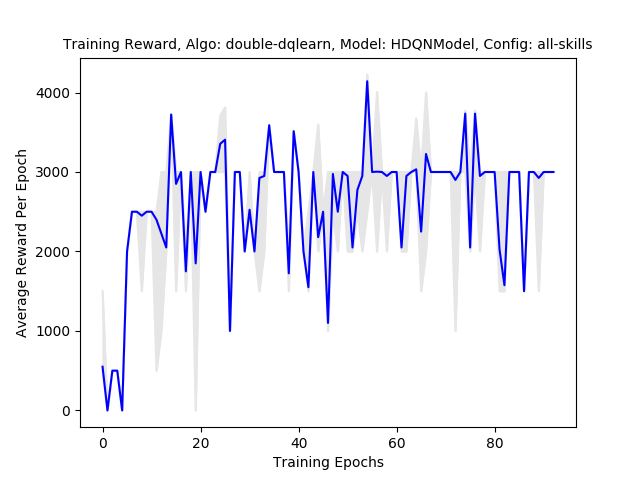
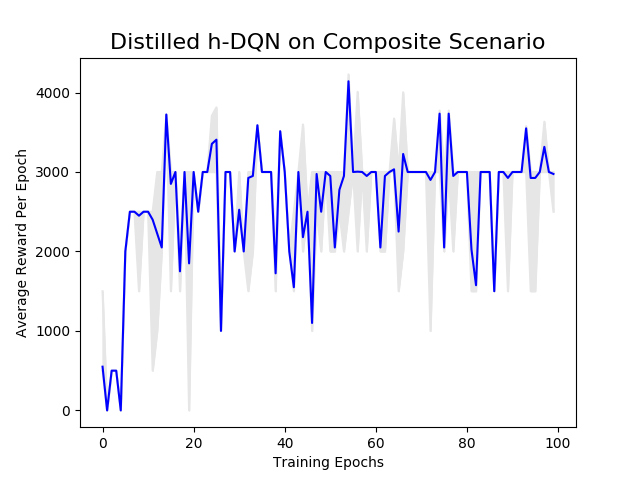
Updated Figures

diff --git a/src/Graphs.py b/src/Graphs.py
@@ -14,8 +14,10 @@ if __name__ == '__main__':
         plt.plot(max_, color='#e6e6e6')
         plt.fill_between(list(range(len(avg_))), min_,max_,interpolate=True,color='#e6e6e6')
         plt.plot(avg_, color='blue')
-        if filename == 'double-dqlearn_HDQNModel_all-skills.csv'
-        plt.title('Training Reward, Algo: ' + labels[0] + ', Model: '  + labels[1] + ', Config: ' + labels[2], fontsize=10)
+        if filename == 'double-dqlearn_HDQNModel_all-skills.csv':
+            plt.title('Distilled h-DQN on Composite Scenario', fontsize=16)
+        else:
+            plt.title('Training Reward, Algo: ' + labels[0] + ', Model: '  + labels[1] + ', Config: ' + labels[2], fontsize=10)
         plt.ylabel('Average Reward Per Epoch')
         plt.xlabel('Training Epochs')
         plt.savefig("../doc/figures/" + filename[:-4] + "_training_results.png")
@@ -31,8 +33,8 @@ if __name__ == '__main__':
     plt.fill_between(list(range(len(avg_))), min_,max_,interpolate=True,color='#e6e6e6')
     line1, = plt.plot(avg_, color='blue', label='h-DQN')
     line2, = plt.plot(data_0[:,1], color='red', label='DQN')
-    plt.legend(handles=[line1, line2])
-    plt.title('Training Reward, DQN vs h-DQN, Config: All-Skills', fontsize=10)
+    plt.legend(handles=[line1, line2], loc='center left', bbox_to_anchor=(0.775, 0.2))
+    plt.title('h-DQN vs DQN on Composite Scenario', fontsize=16)
     plt.ylabel('Average Reward Per Epoch')
     plt.xlabel('Training Epochs')
     plt.savefig("../doc/figures/all_skills_HDQNvsDQN_training_results.png")
